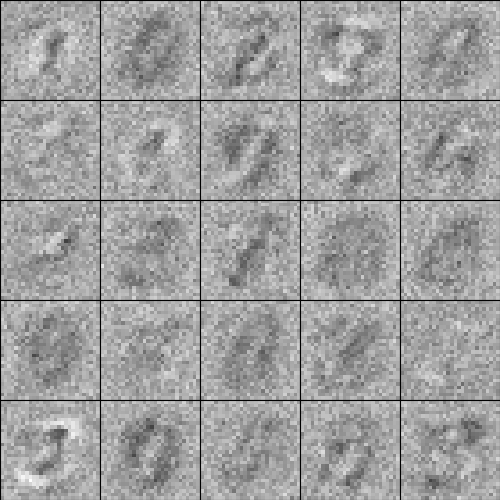
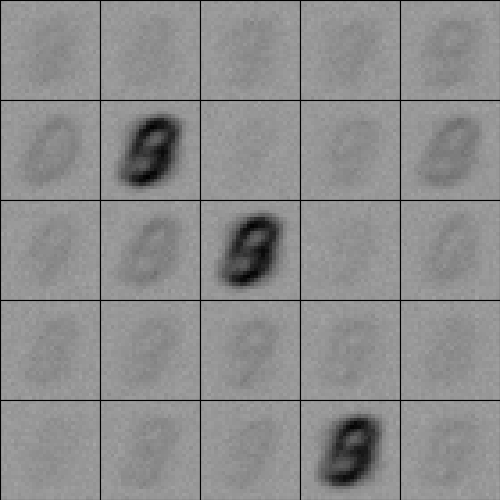
lab4

diff --git a/Lab4/rbm.py b/Lab4/rbm.py
@@ -122,8 +122,10 @@ class RestrictedBoltzmannMachine():
         self.delta_weight_vh = self.learning_rate * \
                                (data_expect - model_expect) / v_0.shape[0]
 
-        self.delta_bias_v = np.mean(v_0, axis=0) - np.mean(v_k, axis=0)
-        self.delta_bias_h = np.mean(h_0, axis=0) - np.mean(h_k, axis=0)
+        self.delta_bias_v = self.learning_rate * \
+                            np.mean(v_0, axis=0) - np.mean(v_k, axis=0)
+        self.delta_bias_h = self.learning_rate * \
+                            np.mean(h_0, axis=0) - np.mean(h_k, axis=0)
 
         self.bias_v += self.delta_bias_v
         self.weight_vh += self.delta_weight_vh
@@ -151,8 +153,6 @@ class RestrictedBoltzmannMachine():
         #  of hidden layer (replace the zeros below)
 
         probs = sigmoid(self.bias_h + np.dot(visible_minibatch, self.weight_vh))
-        # uniform = np.random.uniform(size=(n_samples, self.ndim_hidden))
-        # samples = np.where((probs-uniform) >= 0, 1, 0)
         samples = sample_binary(probs)
         return probs, samples
 
@@ -171,8 +171,7 @@ class RestrictedBoltzmannMachine():
         assert self.weight_vh is not None
 
         n_samples = hidden_minibatch.shape[0]
-        probs, samples = np.zeros((n_samples, self.ndim_visible)), np.zeros((n_samples, self.ndim_visible))
-
+        x = self.bias_v + np.dot(hidden_minibatch, self.weight_vh.T)
         if self.is_top:
 
             """
@@ -187,7 +186,7 @@ class RestrictedBoltzmannMachine():
             # Note that this section can also be postponed until TASK 4.2, since in this task,
             # stand-alone RBMs do not contain labels in visible layer.
 
-            x = self.bias_v + np.dot(hidden_minibatch, self.weight_vh.T)
+
 
             labels_probs = softmax(x[:, -self.n_labels:])
             probs_500 = sigmoid(x[:, :-self.n_labels])
@@ -202,10 +201,9 @@ class RestrictedBoltzmannMachine():
 
         else:
 
-            # [TODO TASK 4.1] compute probabilities and activations (samples from probabilities) of visible layer (replace the pass and zeros below)
-            probs = sigmoid(self.bias_v + np.dot(hidden_minibatch, self.weight_vh.T))
-            # uniform = np.random.uniform(size=(n_samples, self.ndim_visible))
-            # samples = np.where((probs - uniform) >= 0, 1, 0)
+            # [TODO TASK 4.1] compute probabilities and activations (samples from probabilities)
+            #  of visible layer (replace the pass and zeros below)
+            probs = sigmoid(x)
             samples = sample_binary(probs)
         return probs, samples
 
@@ -237,8 +235,6 @@ class RestrictedBoltzmannMachine():
         #  but with directed connections (replace the zeros below)
 
         probs = sigmoid(self.bias_h + np.dot(visible_minibatch, self.weight_v_to_h))
-        # uniform = np.random.uniform(size=(n_samples, self.ndim_hidden))
-        # samples = np.where((probs-uniform) >= 0, 1, 0)
         samples = sample_binary(probs)
         return probs, samples
 
@@ -277,9 +273,7 @@ class RestrictedBoltzmannMachine():
         else:
 
             # [TODO TASK 4.2] performs same computaton as the function 'get_v_given_h' but with directed connections (replace the pass and zeros below)
-            probs = sigmoid(self.bias_v + np.dot(hidden_minibatch, self.weight_h_to_v.T))
-            # uniform = np.random.uniform(size=(n_samples, self.ndim_visible))
-            # samples = np.where((probs - uniform) >= 0, 1, 0)
+            probs = sigmoid(self.bias_v + np.dot(hidden_minibatch, self.weight_h_to_v))
             samples = sample_binary(probs)
 
         return probs, samples

diff --git a/Lab4/dbn.py b/Lab4/dbn.py
@@ -86,8 +86,8 @@ class DeepBeliefNet():
             v = self.rbm_stack['pen+lbl--top'].get_v_given_h(h)[1]
 
         predicted_lbl = v[:, -len(lbl[0]):]
-        print(predicted_lbl.shape)
-        exit()
+        print(predicted_lbl[0])
+        print(true_lbl[0])
         print("accuracy = %.2f%%" % (100. * np.mean(np.argmax(predicted_lbl, axis=1) == np.argmax(true_lbl, axis=1))))
 
         return
@@ -121,7 +121,7 @@ class DeepBeliefNet():
             
             records.append( [ ax.imshow(vis.reshape(self.image_size), cmap="bwr", vmin=0, vmax=1, animated=True, interpolation=None)])
             
-        anim = stitch_video(fig,records).save("%s.generate%d.mp4"%(name,np.argmax(true_lbl)))            
+        anim = stitch_video(fig,records).save("%s.generate%d.mp4"%(name, np.argmax(true_lbl)))
             
         return
 
@@ -176,7 +176,6 @@ class DeepBeliefNet():
 
             self.rbm_stack["hid--pen"].untwine_weights()
             new_inputs = self.rbm_stack["hid--pen"].get_h_given_v_dir(new_inputs)[1]
-
             new_inputs = np.concatenate((new_inputs, lbl_trainset), axis=1)
             self.rbm_stack["pen+lbl--top"].cd1(visible_trainset=new_inputs, epochs=n_iterations)
             # self.savetofile_rbm(loc="trained_rbm", name="pen+lbl--top")

diff --git a/Lab4/run.py b/Lab4/run.py
@@ -8,7 +8,7 @@ from dbn import DeepBeliefNet
 if __name__ == "__main__":
 
     image_size = [28, 28]
-    n_train = 60000
+    # n_train = 60000
     train_imgs, train_lbls, test_imgs, test_lbls = read_mnist(dim=image_size, n_train=1000, n_test=10000)
 
     ''' restricted boltzmann machine '''
@@ -48,7 +48,7 @@ if __name__ == "__main__":
 
     print ("\nStarting a Deep Belief Net..")
     
-    dbn = DeepBeliefNet(sizes={"vis":image_size[0]*image_size[1], "hid":500, "pen":500, "top":2000, "lbl":10},
+    dbn = DeepBeliefNet(sizes={"vis":image_size[0]*image_size[1], "hid": 500, "pen": 500, "top": 2000, "lbl": 10},
                         image_size=image_size,
                         n_labels=10,
                         batch_size=10
@@ -57,9 +57,7 @@ if __name__ == "__main__":
     ''' greedy layer-wise training '''
 
     dbn.train_greedylayerwise(vis_trainset=train_imgs, lbl_trainset=train_lbls, n_iterations=EPOCHS)
-
     dbn.recognize(train_imgs, train_lbls)
-    
     dbn.recognize(test_imgs, test_lbls)
 
     # for digit in range(10):
